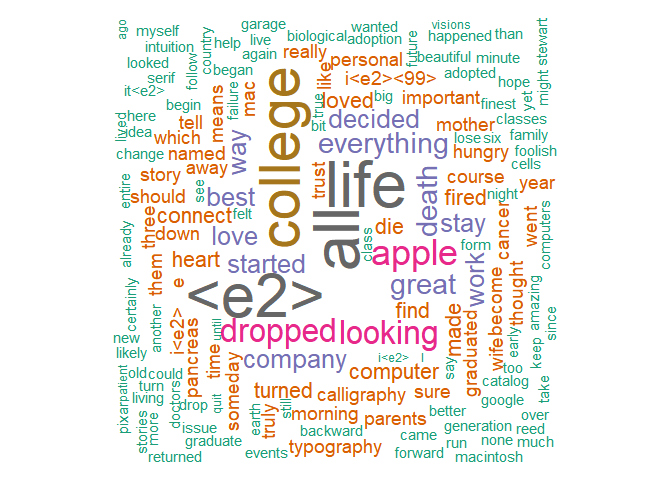
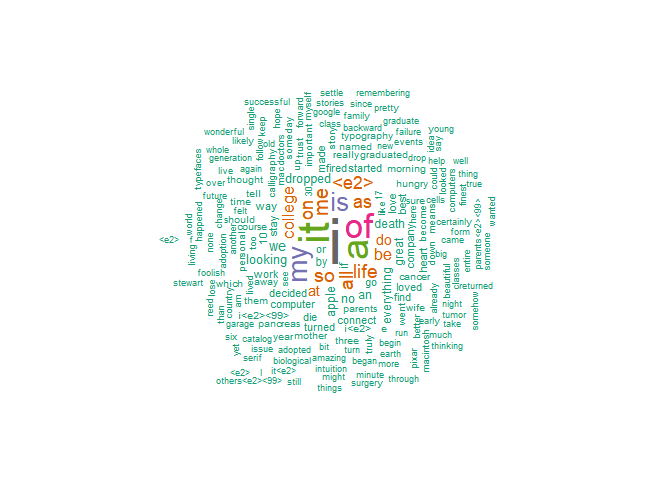
change code

Changed region(s): [[0.1562, 0.0312, 0.8438, 0.9688]]

diff --git a/wk4/readme.md b/wk4/readme.md
@@ -42,43 +42,43 @@
     doc2 = tm_map(doc2, removeWords, c("today", "make", "dots", "back", "closest"))
     doc2 = tm_map(doc2, removeWords, c("first", "how", "our", "put", "who", "final"))
 
-    dtm = TermDocumentMatrix(doc2)
+    dtm = TermDocumentMatrix(doc2, control=list(wordLengths=c(1,Inf)))
     m = as.matrix(dtm)
     v = sort(rowSums(m),decreasing=TRUE)
     d = data.frame(word = names(v),freq=v)
     head(d, 30)
 
     ##                    word freq
+    ## i                     i   85
+    ## it                   it   53
+    ## a                     a   46
+    ## of                   of   41
+    ## my                   my   30
+    ## is                   is   28
+    ## me                   me   18
+    ## so                   so   17
     ## all                 all   16
     ## life               life   16
+    ## as                   as   15
+    ## on                   on   15
     ## <e2>\u0080 <e2>\u0080   15
+    ## be                   be   14
     ## college         college   14
+    ## at                   at   11
+    ## do                   do   11
+    ## we                   we    9
     ## apple             apple    8
+    ## no                   no    8
     ## dropped         dropped    7
     ## looking         looking    7
+    ## an                   an    6
+    ## by                   by    6
     ## death             death    6
     ## everything   everything    6
     ## great             great    6
+    ## if                   if    6
     ## best               best    5
     ## company         company    5
-    ## decided         decided    5
-    ## love               love    5
-    ## started         started    5
-    ## stay               stay    5
-    ## way                 way    5
-    ## work               work    5
-    ## computer       computer    4
-    ## connect         connect    4
-    ## die                 die    4
-    ## find               find    4
-    ## fired             fired    4
-    ## heart             heart    4
-    ## loved             loved    4
-    ## made               made    4
-    ## turned           turned    4
-    ## away               away    3
-    ## become           become    3
-    ## calligraphy calligraphy    3
 
     set.seed(1234)
     wordcloud(words = d$word, freq = d$freq, min.freq = 1,
